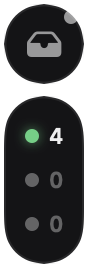
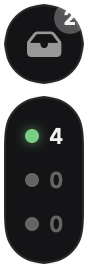
Pill: bot comments show a muted count badge, beside the amber one when both

Changed region(s): [[0.6136, 0.0, 0.9318, 0.1493]]

diff --git a/Sources/Lookout/PillView.swift b/Sources/Lookout/PillView.swift
@@ -169,24 +169,32 @@ struct PillView: View {
         )
         .overlay(alignment: .topTrailing) {
             if unread > 0 {
-                Text(unread > 99 ? "99+" : "\(unread)")
-                    .font(.system(size: 10, weight: .bold).monospacedDigit())
-                    .foregroundStyle(Color.black.opacity(0.85))
-                    .padding(.horizontal, 4)
-                    .frame(minWidth: 16, minHeight: 16)
-                    .background(Capsule().fill(Theme.amber))
+                countBadge(unread, fill: Theme.amber, text: Color.black.opacity(0.85))
                     .offset(x: 5, y: -5)
                     .transition(.scale.combined(with: .opacity))
-            } else if botUnread > 0 {
-                Circle()
-                    .fill(Theme.secondary)
-                    .frame(width: 7, height: 7)
-                    .offset(x: 1, y: -1)
+            }
+        }
+        // Bots get the same count, muted, on the other corner so it still shows beside the amber one.
+        .overlay(alignment: unread > 0 ? .topLeading : .topTrailing) {
+            if botUnread > 0 {
+                countBadge(botUnread, fill: Color.white.opacity(0.28), text: Theme.text)
+                    .offset(x: unread > 0 ? -1 : 5, y: -5)
                     .help("\(botUnread) from bots")
+                    .transition(.scale.combined(with: .opacity))
             }
         }
         .overlay(alignment: .bottomTrailing) { statusBadge.offset(x: 4, y: 4) }
         .animation(.spring(duration: 0.3), value: unread)
+        .animation(.spring(duration: 0.3), value: botUnread)
+    }
+
+    private func countBadge(_ count: Int, fill: Color, text: Color) -> some View {
+        Text(count > 99 ? "99+" : "\(count)")
+            .font(.system(size: 10, weight: .bold).monospacedDigit())
+            .foregroundStyle(text)
+            .padding(.horizontal, 4)
+            .frame(minWidth: 16, minHeight: 16)
+            .background(Capsule().fill(fill))
     }
 
     /// One row per CI state with the number of repos in it; hover lists them.
